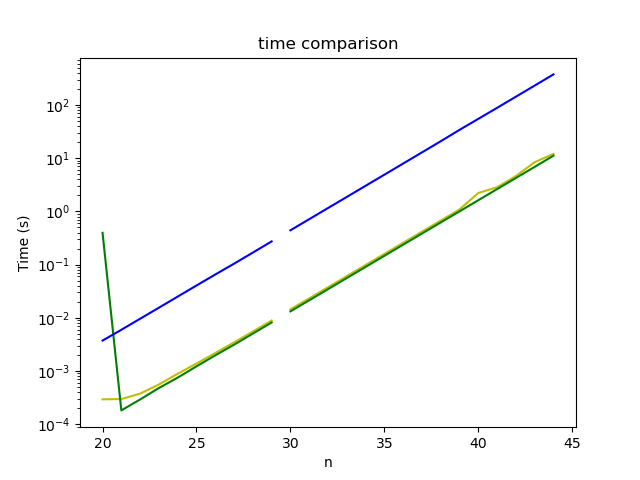
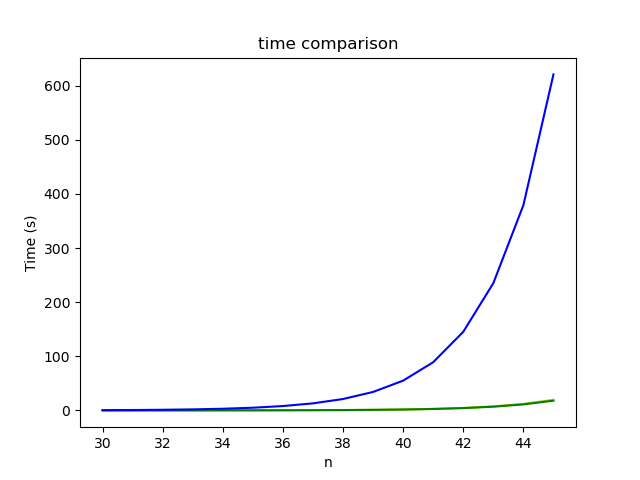
test

diff --git a/MA4_2.py b/MA4_2.py
@@ -69,7 +69,7 @@ def time47():
 def main():
     main_start = pc()
     time47()
-    comp(20,30)
+    comp(30,45)
     main_end = pc()
     print('Done')
     print(str(main_end-main_start)+"s")
